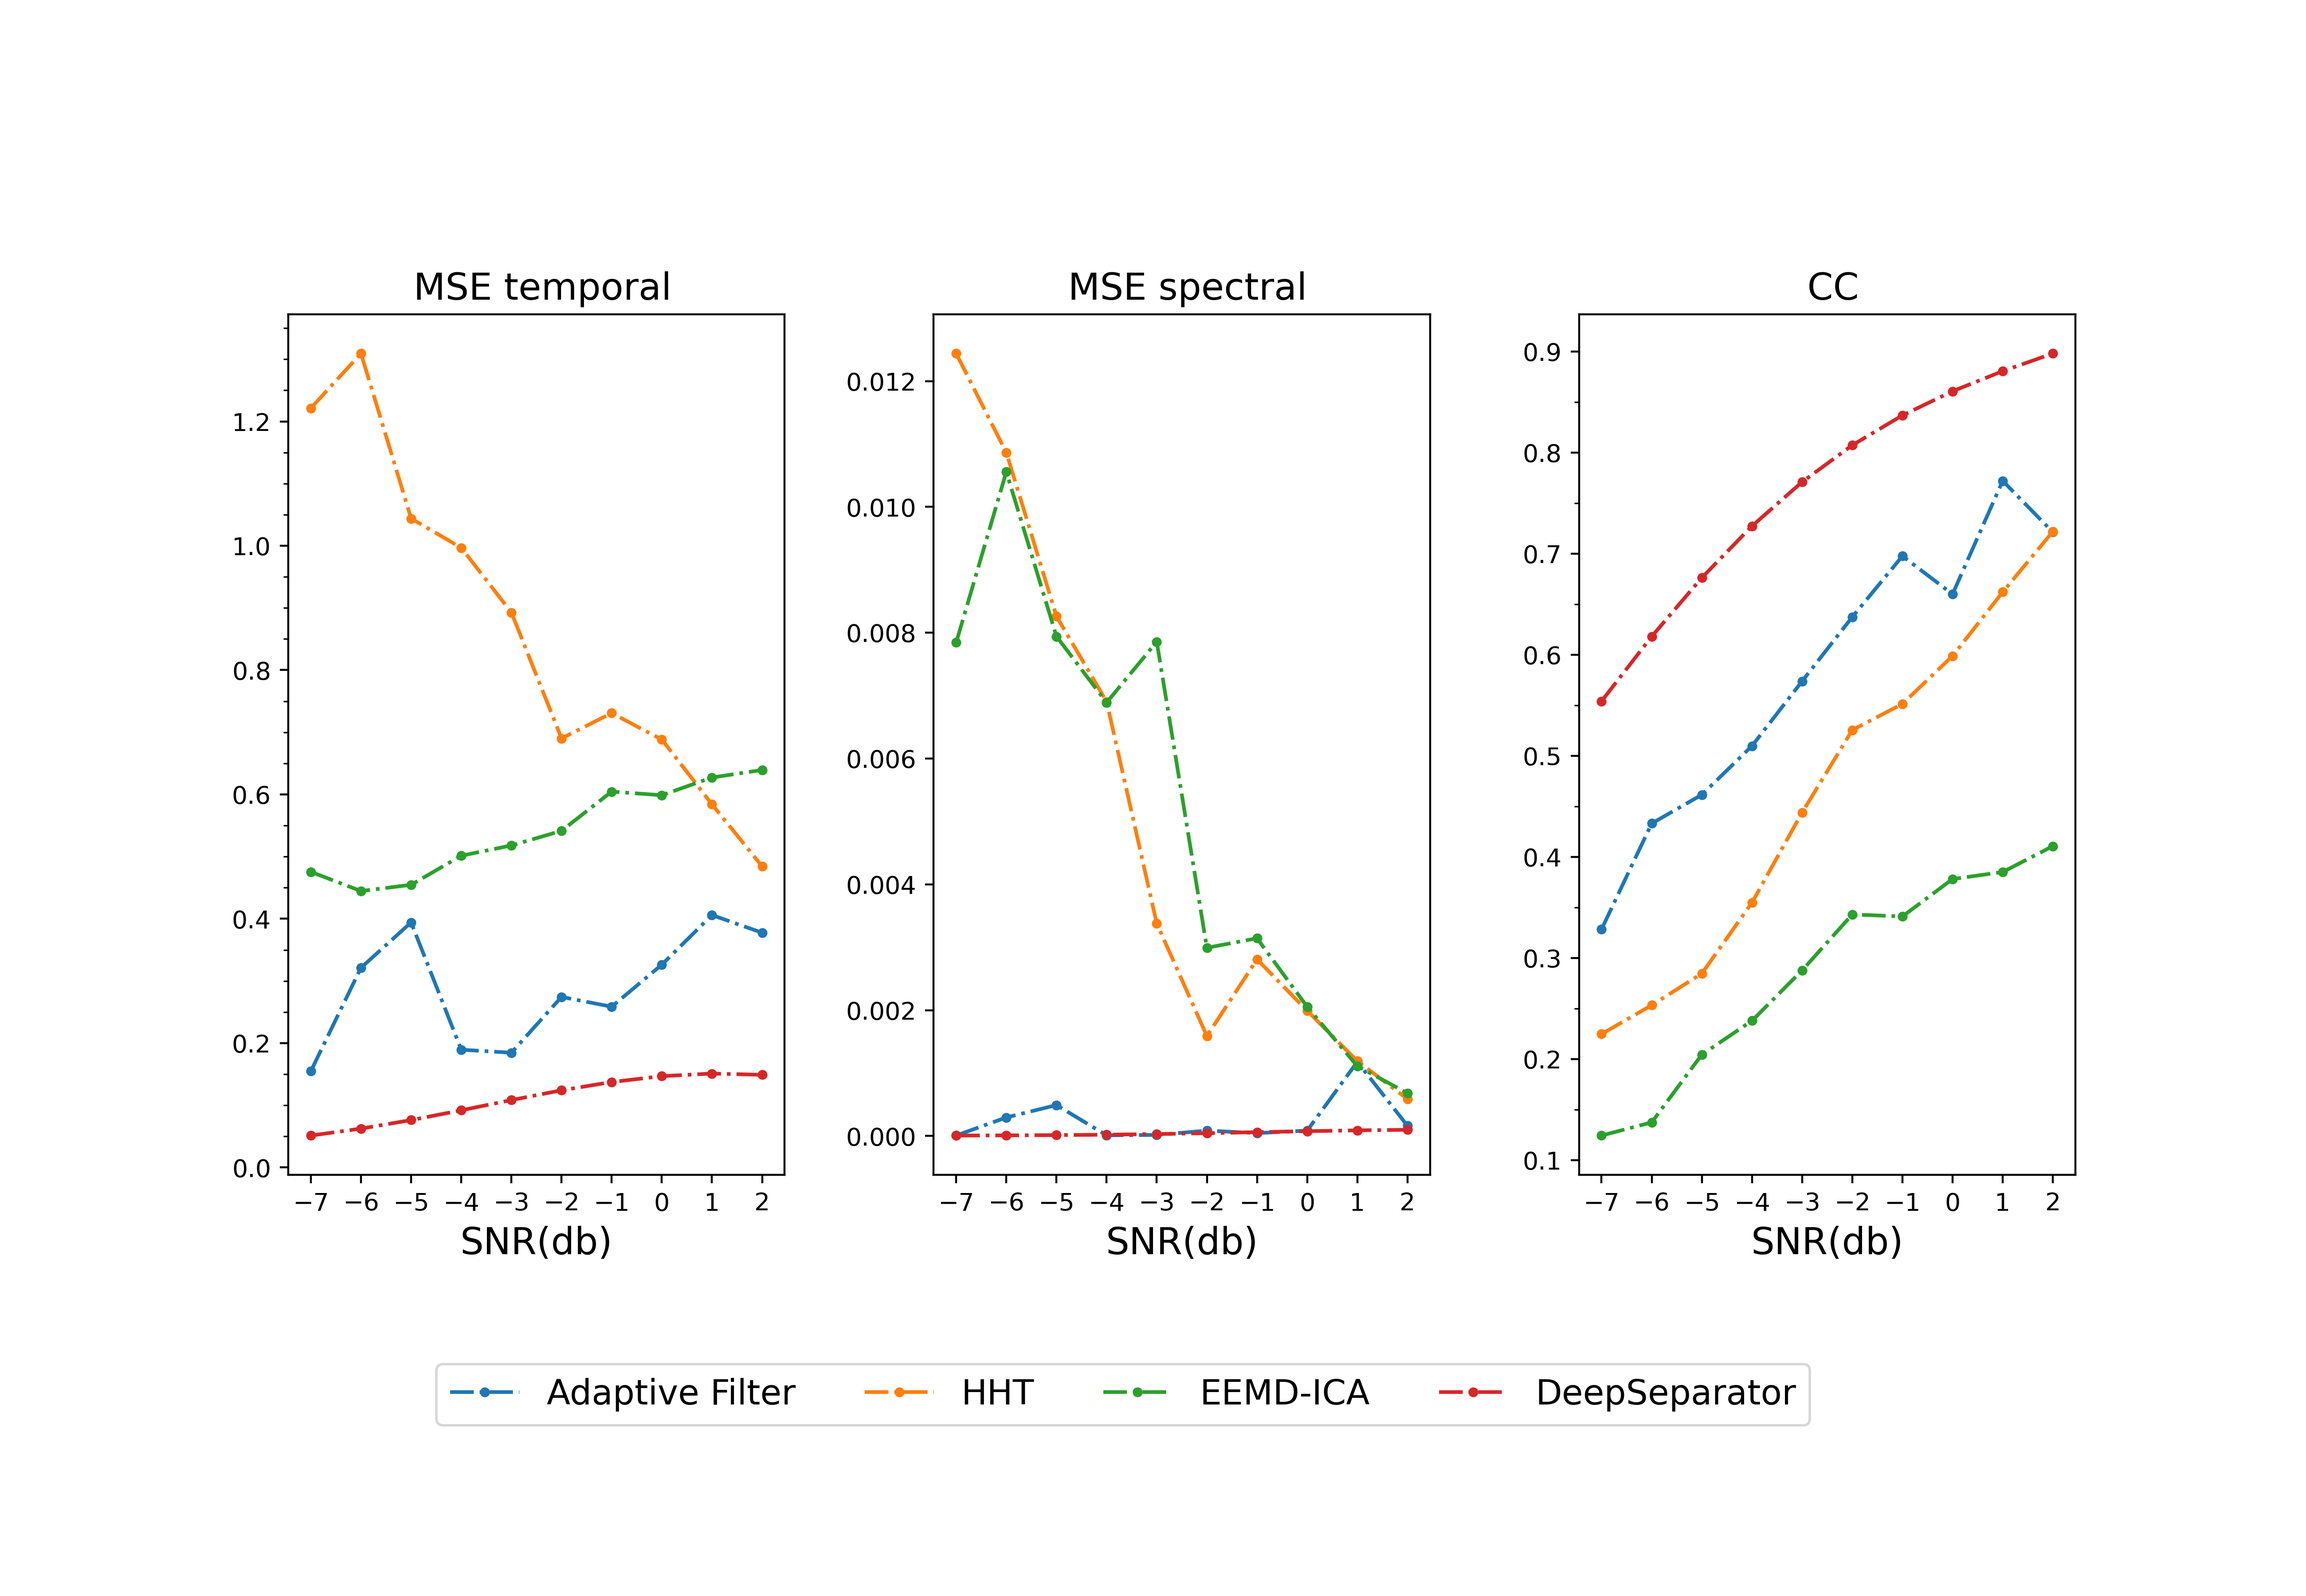
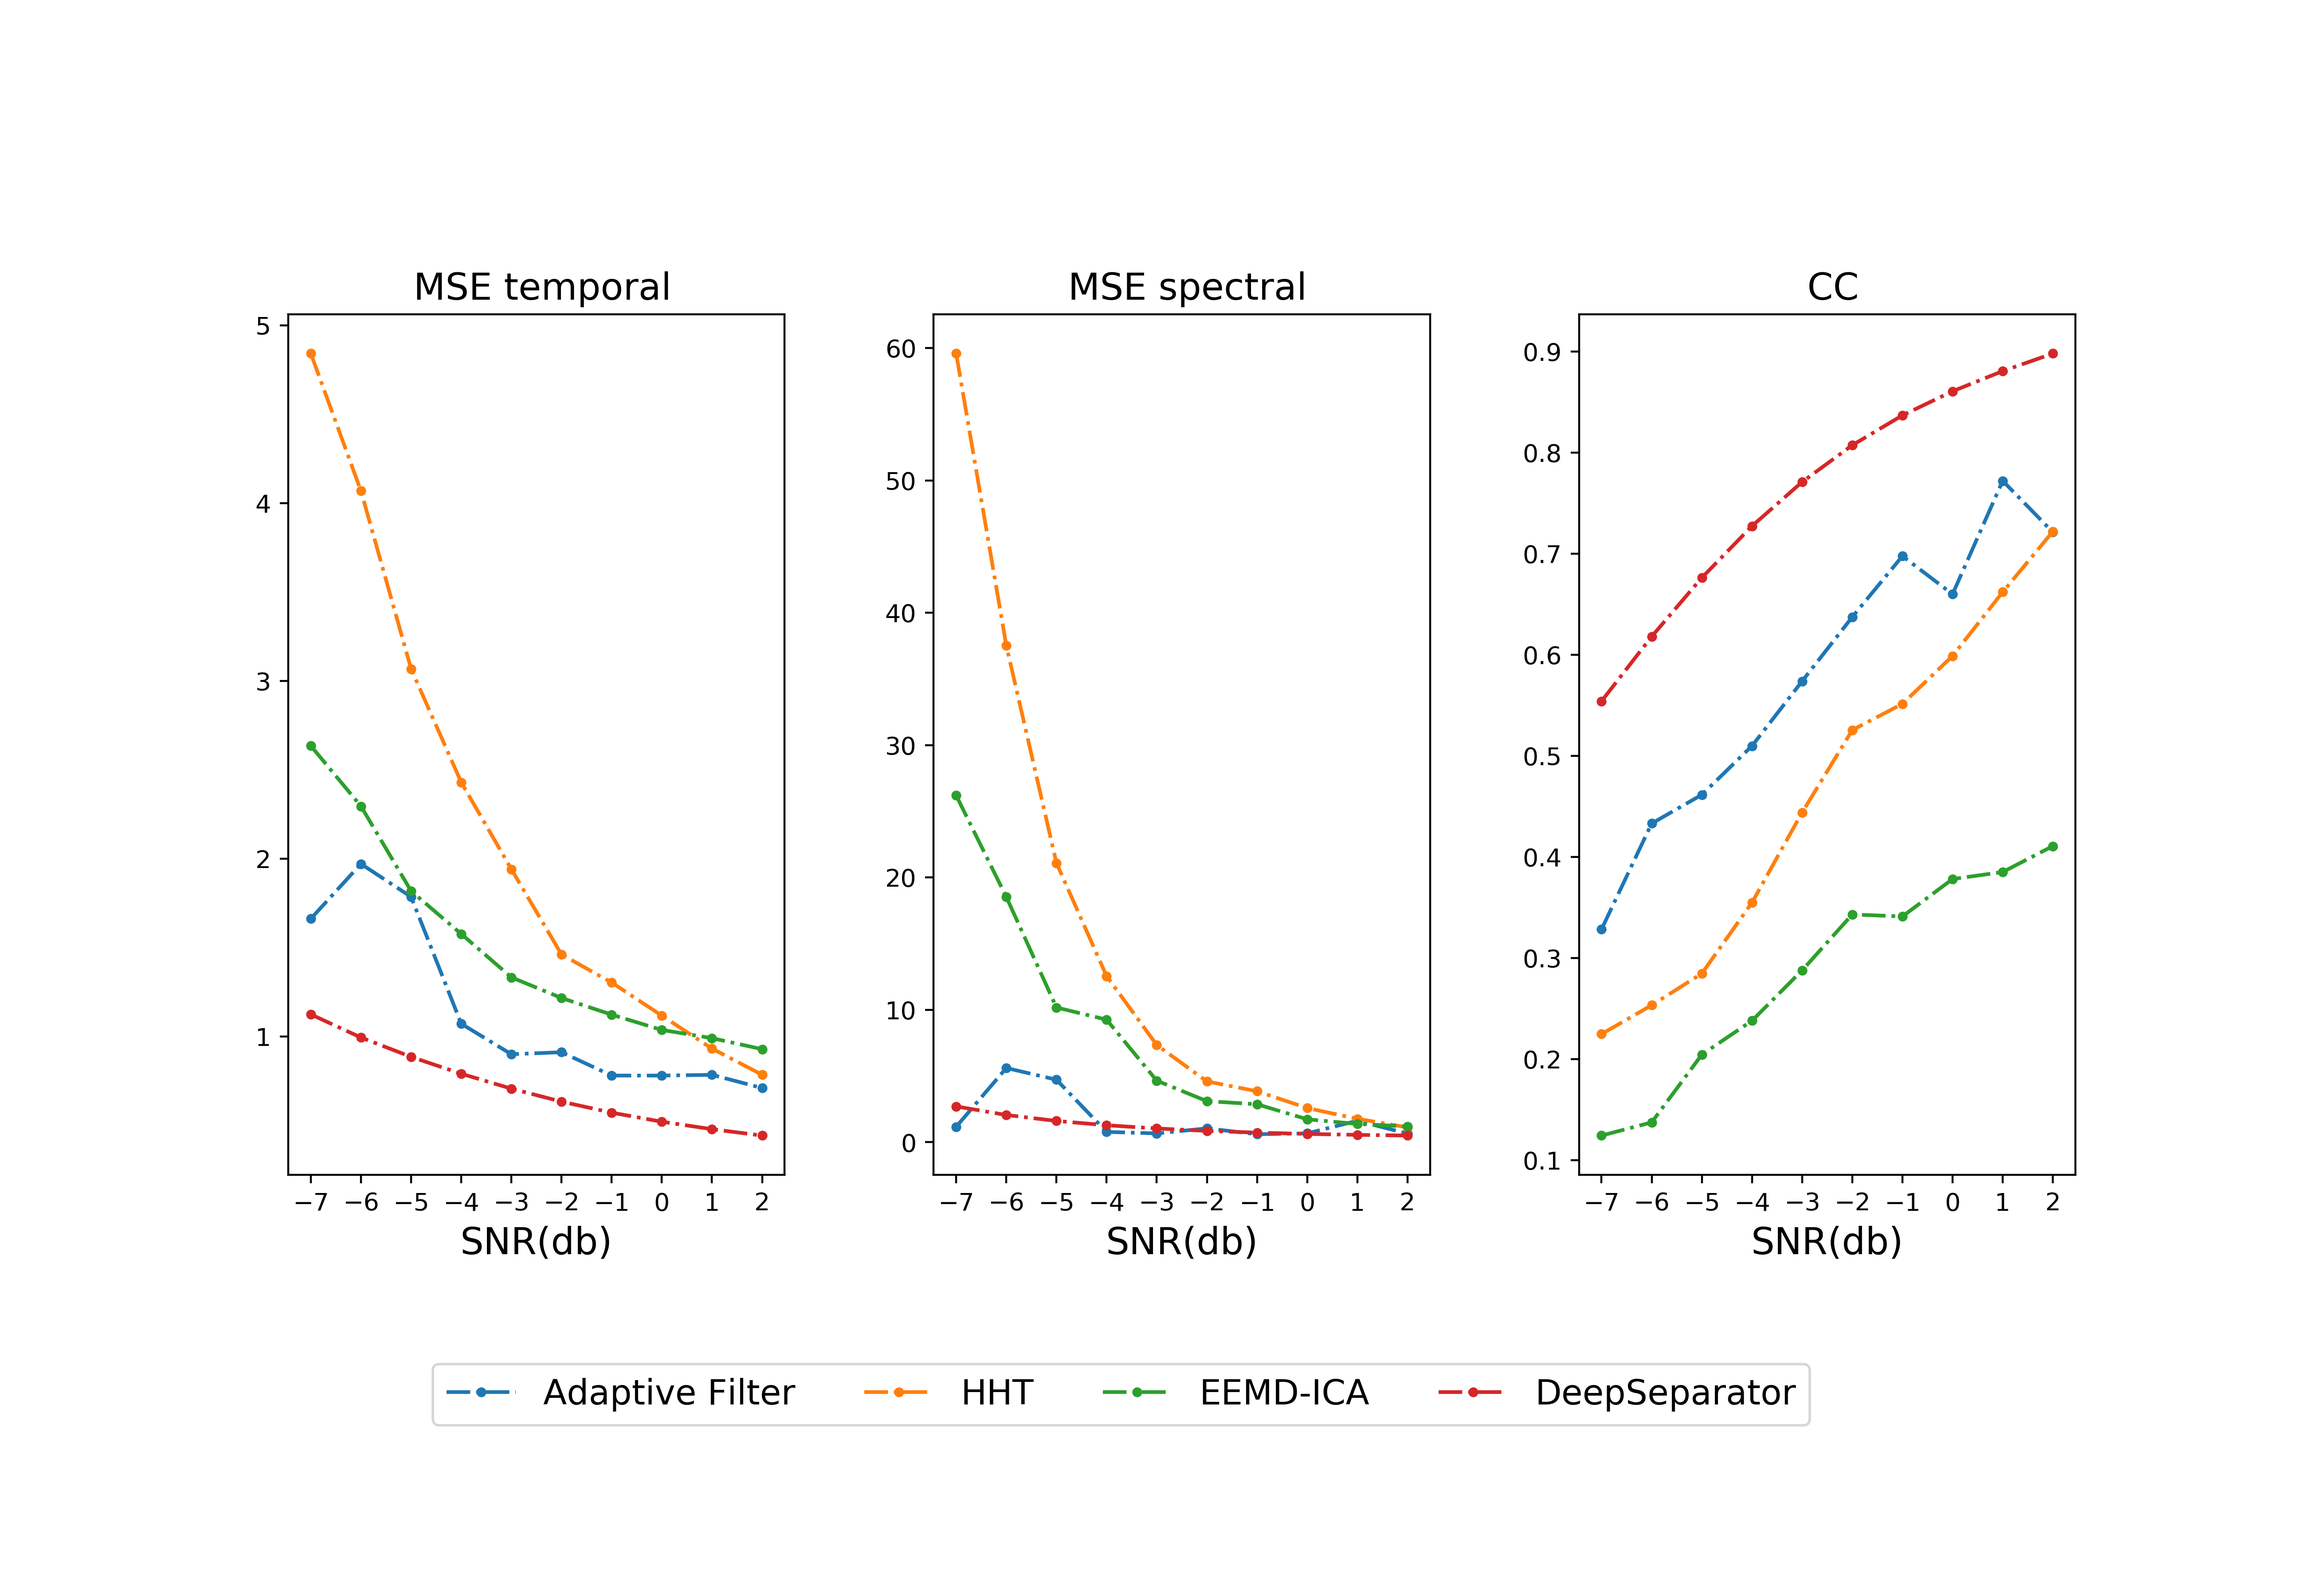
Update

diff --git a/Exp2/testCriterion.py b/Exp2/testCriterion.py
@@ -1,3 +1,7 @@
+'''
+Log:
+update RRMSE TEMPORAL SPECTRAL
+'''
 import numpy as np
 import torch.optim as optim
 import torch.utils.data as Data
@@ -7,6 +11,13 @@ from scipy.fftpack import fft
 import torch
 import torch.nn as nn
 import matplotlib.pyplot as plt
+import time
+
+import math
+
+def get_rms(records):
+    return math.sqrt(sum([x ** 2 for x in records]) / len(records))
+
 
 class CustomLoss(nn.Module):
 
@@ -14,7 +25,8 @@ class CustomLoss(nn.Module):
         super().__init__()
 
     def forward(self, pred, real):
-        return torch.mean(torch.pow((pred - real), 2))
+        coe = get_rms(pred[0] - real[0]) / get_rms(real[0])
+        return coe
 
 
 def FourierLoss(pred, real):
@@ -43,18 +55,15 @@ def SpectralLoss(pred, real):
     pred = pred.detach().numpy()
     real = real.detach().numpy()
 
-    psd_pred = pred
-    psd_real = real
 
-    for i in range(len(pred)):
-        _psd_pred,freq = plt.psd(pred[i], NFFT=512, Fs=256, pad_to=1024,
-                                 scale_by_freq=True)
-        psd_pred[i] = _psd_pred[1:]
-        _psd_real,freq = plt.psd(real[i], NFFT=512, Fs=256, pad_to=1024,
-                                  scale_by_freq=True)
-        psd_real[i] = _psd_real[1:]
-    return np.mean(np.square(psd_pred - psd_real))
-
+    _psd_pred,freq = plt.psd(pred[0], NFFT=512, Fs=256, pad_to=1024,
+                             scale_by_freq=True)
+    psd_pred = _psd_pred[1:]
+    _psd_real,freq = plt.psd(real[0], NFFT=512, Fs=256, pad_to=1024,
+                              scale_by_freq=True)
+    psd_real = _psd_real[1:]
+    coe = get_rms(psd_real - psd_pred) / get_rms(psd_real)
+    return coe
 
 
 def correlation(pred, real):
@@ -79,7 +88,7 @@ def standardization(data):
     sigma = np.std(data, axis=0)
     return (data - mu) / sigma
 
-
+start = time.time()
 custom_loss = CustomLoss()
 
 BATCH_SIZE = 6000
@@ -93,17 +102,17 @@ print_train_accuracy_frequency = 1
 test_frequency = 10
 
 # 模型有CNN_CNN，CNN_FCN，CNN_CNNFCN，CNN_RNN，CNN_LSTM
-selected_model = 'CNN_CNN'
-model = CNN_CNN()
+selected_model = 'CNN_LSTM'
+model = CNN_LSTM()
 
-test_input = np.load('../data/test_input.npy')
-test_output = np.load('../data/test_output.npy')
+# test_input = np.load('../data/test_input.npy')
+# test_output = np.load('../data/test_output.npy')
 # #
 # test_input = np.load('../data/EOG_EEG_test_input.npy')
 # test_output = np.load('../data/EOG_EEG_test_output.npy')
-#
-# test_input = np.load('../data/EMG_EEG_test_input.npy')
-# test_output = np.load('../data/EMG_EEG_test_output.npy')
+# #
+test_input = np.load('../data/EMG_EEG_test_input.npy')
+test_output = np.load('../data/EMG_EEG_test_output.npy')
 
 '''
 注意使用不同的模型，embedding vector和attenuation vector的维度会有不同，要相应调整ideal_atte_x的长度
@@ -131,7 +140,7 @@ test_loader = Data.DataLoader(
 
 print("torch.cuda.is_available() = ", torch.cuda.is_available())
 
-device = torch.device("cuda:0" if torch.cuda.is_available() else "cpu")
+device = torch.device("cuda:2" if torch.cuda.is_available() else "cpu")
 
 
 '''
@@ -177,15 +186,24 @@ for step, (test_input, test_indicator, test_output) in enumerate(test_loader):
     
     corr = correlation(test_preds, test_output)
 
-    total_test_loss_per_epoch += test_loss.item()
+    total_test_loss_per_epoch += test_loss
     total_test_fourier_loss_per_epoch += test_fourier_loss
     total_test_correlation_per_epoch += corr
 
 average_test_loss_per_epoch = total_test_loss_per_epoch / test_step_num
 average_test_fourier_loss_per_epoch = total_test_fourier_loss_per_epoch / test_step_num
 average_test_correlation_per_epoch = total_test_correlation_per_epoch / test_step_num
+end = time.time()
+interval = end - start
 
-print('--------------test temporal MSE: ', average_test_loss_per_epoch)
-print('--------------test spectral MSE: ', average_test_fourier_loss_per_epoch)
+print("Time: "+str(interval))
+print('--------------test temporal RRMSE: ', average_test_loss_per_epoch)
+print('--------------test spectral RRMSE: ', average_test_fourier_loss_per_epoch)
 print('--------------test correlation: ', average_test_correlation_per_epoch)
+
+dataname = "all"
+name = selected_model + dataname
+np.savetxt(name+"rrmset", average_test_loss_per_epoch)
+np.savetxt(name+"rrmses", average_test_fourier_loss_per_epoch)
+np.savetxt(name+"cc", average_test_correlation_per_epoch)
 

diff --git a/Exp1/testCriterion.py b/Exp1/testCriterion.py
@@ -1,3 +1,7 @@
+'''
+Log:
+update RRMSE TEMPORAL SPECTRAL
+'''
 import numpy as np
 import torch.optim as optim
 import torch.utils.data as Data
@@ -7,6 +11,11 @@ from scipy.fftpack import fft
 import torch
 import torch.nn as nn
 import matplotlib.pyplot as plt
+import math
+
+def get_rms(records):
+    return math.sqrt(sum([x ** 2 for x in records]) / len(records))
+
 
 class CustomLoss(nn.Module):
 
@@ -14,7 +23,8 @@ class CustomLoss(nn.Module):
         super().__init__()
 
     def forward(self, pred, real):
-        return torch.mean(torch.pow((pred - real), 2))
+        coe = get_rms(pred[0] - real[0]) / get_rms(real[0])
+        return coe
 
 
 def FourierLoss(pred, real):
@@ -43,18 +53,15 @@ def SpectralLoss(pred, real):
     pred = pred.detach().numpy()
     real = real.detach().numpy()
 
-    psd_pred = pred
-    psd_real = real
 
-    for i in range(len(pred)):
-        _psd_pred,freq = plt.psd(pred[i], NFFT=512, Fs=256, pad_to=1024,
-                                 scale_by_freq=True)
-        psd_pred[i] = _psd_pred[1:]
-        _psd_real,freq = plt.psd(real[i], NFFT=512, Fs=256, pad_to=1024,
-                                  scale_by_freq=True)
-        psd_real[i] = _psd_real[1:]
-    return np.mean(np.square(psd_pred - psd_real))
-
+    _psd_pred,freq = plt.psd(pred[0], NFFT=512, Fs=256, pad_to=1024,
+                             scale_by_freq=True)
+    psd_pred = _psd_pred[1:]
+    _psd_real,freq = plt.psd(real[0], NFFT=512, Fs=256, pad_to=1024,
+                              scale_by_freq=True)
+    psd_real = _psd_real[1:]
+    coe = get_rms(psd_real - psd_pred) / get_rms(psd_real)
+    return coe
 
 def correlation(pred, real):
     pred = pred.cpu()
@@ -91,7 +98,7 @@ print_loss_frequency = 1
 print_train_accuracy_frequency = 1
 test_frequency = 10
 
-# 模型有CNN，FCN，CNNFCN，RNN，LSTM
+# 模型有CNN，FCN，RNN，LSTM
 selected_model = 'LSTM'
 model = LSTM()
 
@@ -177,7 +184,7 @@ for step, (test_input, test_indicator, test_output) in enumerate(test_loader):
     
     corr = correlation(test_preds, test_output)
 
-    total_test_loss_per_epoch += test_loss.item()
+    total_test_loss_per_epoch += test_loss
     total_test_fourier_loss_per_epoch += test_fourier_loss
     total_test_correlation_per_epoch += corr
 
@@ -186,7 +193,13 @@ average_test_loss_per_epoch = total_test_loss_per_epoch / test_step_num
 average_test_fourier_loss_per_epoch = total_test_fourier_loss_per_epoch / test_step_num
 average_test_correlation_per_epoch = total_test_correlation_per_epoch / test_step_num
 
-print('--------------test temporal MSE: ', average_test_loss_per_epoch)
-print('--------------test spectral MSE: ', average_test_fourier_loss_per_epoch)
+print('--------------test temporal RRMSE: ', average_test_loss_per_epoch)
+print('--------------test spectral RRMSE: ', average_test_fourier_loss_per_epoch)
 print('--------------test correlation: ', average_test_correlation_per_epoch)
+
+dataname = "EMG"
+name = selected_model + dataname
+np.savetxt(name+"rrmset", average_test_loss_per_epoch)
+np.savetxt(name+"rrmses", average_test_fourier_loss_per_epoch)
+np.savetxt(name+"cc", average_test_correlation_per_epoch)
 

diff --git a/Exp4/testCriterion.py b/Exp4/testCriterion.py
@@ -1,3 +1,7 @@
+'''
+Log:
+update RRMSE TEMPORAL SPECTRAL
+'''
 import numpy as np
 import torch.optim as optim
 import torch.utils.data as Data
@@ -8,14 +12,20 @@ import torch
 import torch.nn as nn
 import matplotlib.pyplot as plt
 
+import math
+
+def get_rms(records):
+    return math.sqrt(sum([x ** 2 for x in records]) / len(records))
+
+
 class CustomLoss(nn.Module):
 
     def __init__(self):
         super().__init__()
 
     def forward(self, pred, real):
-        return torch.mean(torch.pow((pred - real), 2))
-
+        coe = get_rms(pred[0] - real[0]) / get_rms(real[0])
+        return coe
 
 def FourierLoss(pred, real):
     pred = pred.cpu()
@@ -43,19 +53,15 @@ def SpectralLoss(pred, real):
     pred = pred.detach().numpy()
     real = real.detach().numpy()
 
-    psd_pred = pred
-    psd_real = real
 
-    for i in range(len(pred)):
-        _psd_pred,freq = plt.psd(pred[i], NFFT=512, Fs=256, pad_to=1024,
-                                 scale_by_freq=True)
-        psd_pred[i] = _psd_pred[1:]
-        _psd_real,freq = plt.psd(real[i], NFFT=512, Fs=256, pad_to=1024,
-                                  scale_by_freq=True)
-        psd_real[i] = _psd_real[1:]
-    return np.mean(np.square(psd_pred - psd_real))
-
-
+    _psd_pred,freq = plt.psd(pred[0], NFFT=512, Fs=256, pad_to=1024,
+                             scale_by_freq=True)
+    psd_pred = _psd_pred[1:]
+    _psd_real,freq = plt.psd(real[0], NFFT=512, Fs=256, pad_to=1024,
+                              scale_by_freq=True)
+    psd_real = _psd_real[1:]
+    coe = get_rms(psd_real - psd_pred) / get_rms(psd_real)
+    return coe
 
 def correlation(pred, real):
     pred = pred.cpu()
@@ -185,7 +191,13 @@ average_test_loss_per_epoch = total_test_loss_per_epoch / test_step_num
 average_test_fourier_loss_per_epoch = total_test_fourier_loss_per_epoch / test_step_num
 average_test_correlation_per_epoch = total_test_correlation_per_epoch / test_step_num
 
-print('--------------test temporal MSE: ', average_test_loss_per_epoch)
-print('--------------test spectral MSE: ', average_test_fourier_loss_per_epoch)
+print('--------------test temporal RRMSE: ', average_test_loss_per_epoch)
+print('--------------test spectral RRMSE: ', average_test_fourier_loss_per_epoch)
 print('--------------test correlation: ', average_test_correlation_per_epoch)
+
+dataname = "all"
+name = selected_model + dataname
+np.savetxt(name+"rrmset", average_test_loss_per_epoch)
+np.savetxt(name+"rrmses", average_test_fourier_loss_per_epoch)
+np.savetxt(name+"cc", average_test_correlation_per_epoch)
 
